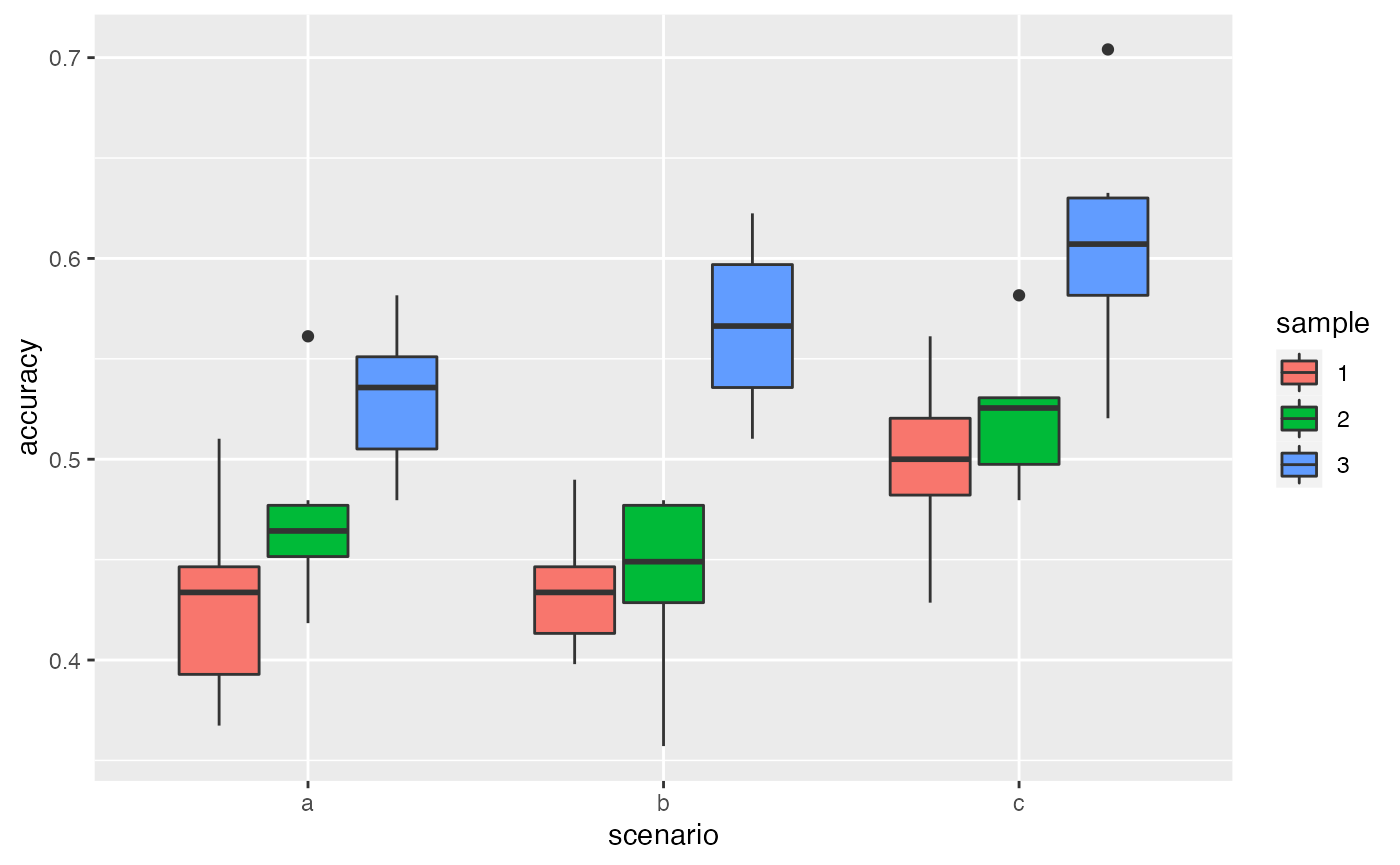
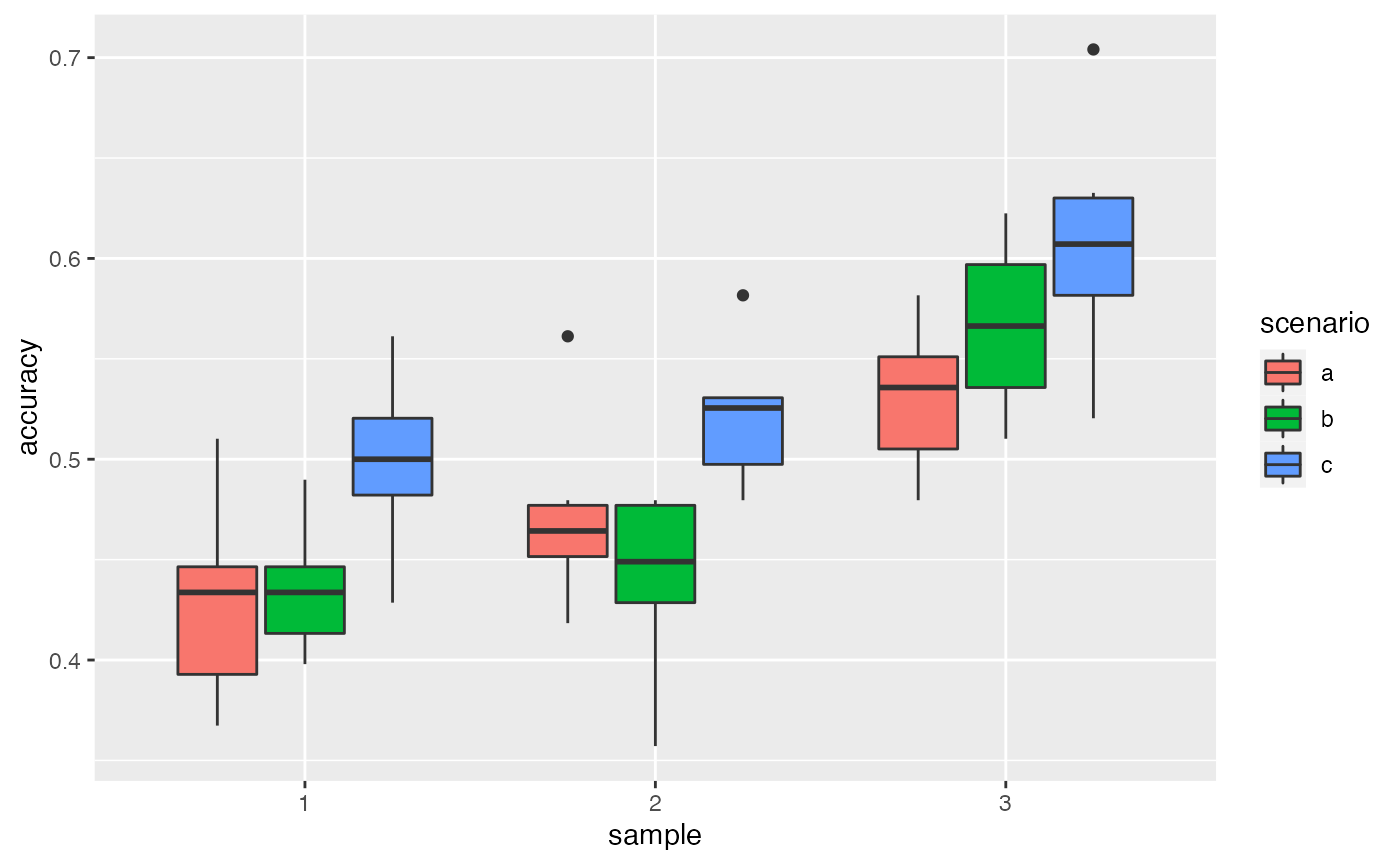
Built site for vernabota: 0.3.0@5c50452

diff --git a/articles/compare.html b/articles/compare.html
@@ -136,7 +136,15 @@
 <div class="sourceCode" id="cb5"><pre class="downlit sourceCode r">
 <code class="sourceCode R"><span class="va">priors</span> <span class="op">&lt;-</span> <span class="fu"><a href="https://rdrr.io/r/base/list.html" class="external-link">list</a></span><span class="op">(</span><span class="va">PriorAllFG</span>, <span class="va">PriorParacouNew</span><span class="op">)</span> <span class="co"># priors</span>
 <span class="va">DAsso</span> <span class="op">&lt;-</span> <span class="fu"><a href="https://rdrr.io/r/base/list.html" class="external-link">list</a></span><span class="op">(</span><span class="cn">NULL</span>, <span class="va">DataAsso</span><span class="op">)</span>               <span class="co"># observation data</span></code></pre></div>
-<p>Then we create the <em>Param</em> dataframe to explicit the different scenarios to test: * priors : a vector with the rank of the priors to use in the priors list * dataAsso : a vector with the rank of the observation data to use in * the DAsso list (if Dasso is not provided, put 1) * weights : a vector with the weights of the priors * eps : a vector with the epsilon value for each scenario * Determ : a vector with the value of Determ (boolean)</p>
+<p>Then we create the <em>Param</em> dataframe to explicit the different scenarios to test:</p>
+<ul>
+<li><p>priors : a vector with the rank of the priors to use in the priors list</p></li>
+<li><p>dataAsso : a vector with the rank of the observation data to use in</p></li>
+<li><p>the DAsso list (if Dasso is not provided, put 1)</p></li>
+<li><p>weights : a vector with the weights of the priors</p></li>
+<li><p>eps : a vector with the epsilon value for each scenario</p></li>
+<li><p>Determ : a vector with the value of Determ (boolean)</p></li>
+</ul>
 <div class="sourceCode" id="cb6"><pre class="downlit sourceCode r">
 <code class="sourceCode R"><span class="va">Param</span> <span class="op">&lt;-</span> <span class="fu"><a href="https://rdrr.io/r/base/data.frame.html" class="external-link">data.frame</a></span><span class="op">(</span>priors <span class="op">=</span> <span class="fu"><a href="https://rdrr.io/r/base/c.html" class="external-link">c</a></span><span class="op">(</span><span class="fl">1</span>,<span class="fl">1</span>,<span class="fl">2</span>,<span class="fl">1</span>,<span class="fl">1</span><span class="op">)</span>,  <span class="co"># here, we used the first prior </span>
                     <span class="co"># of the list for scenario 1, 2, 4 and 5 and the second for scenario 3</span>
@@ -278,7 +286,7 @@
 <code class="sourceCode R">
 <span class="co"># all results together</span>
 <span class="kw"><a href="https://rdrr.io/r/base/library.html" class="external-link">library</a></span><span class="op">(</span><span class="va"><a href="https://ggplot2.tidyverse.org" class="external-link">ggplot2</a></span><span class="op">)</span>
-<span class="fu"><a href="https://ggplot2.tidyverse.org/reference/ggplot.html" class="external-link">ggplot</a></span><span class="op">(</span><span class="fu"><a href="https://ggplot2.tidyverse.org/reference/aes.html" class="external-link">aes</a></span><span class="op">(</span>y <span class="op">=</span> <span class="va">accuracy</span>, x <span class="op">=</span> <span class="va">scenario</span>, fill <span class="op">=</span> <span class="va">sample</span><span class="op">)</span>, data <span class="op">=</span> <span class="va">VBS_test2</span><span class="op">[[</span><span class="fl">2</span><span class="op">]</span><span class="op">]</span><span class="op">)</span> <span class="op">+</span> <span class="fu"><a href="https://ggplot2.tidyverse.org/reference/geom_boxplot.html" class="external-link">geom_boxplot</a></span><span class="op">(</span><span class="op">)</span></code></pre></div>
+<span class="fu"><a href="https://ggplot2.tidyverse.org/reference/ggplot.html" class="external-link">ggplot</a></span><span class="op">(</span><span class="fu"><a href="https://ggplot2.tidyverse.org/reference/aes.html" class="external-link">aes</a></span><span class="op">(</span>y <span class="op">=</span> <span class="va">accuracy</span>, x <span class="op">=</span> <span class="va">sample</span>, fill <span class="op">=</span> <span class="va">scenario</span><span class="op">)</span>, data <span class="op">=</span> <span class="va">VBS_test2</span><span class="op">[[</span><span class="fl">2</span><span class="op">]</span><span class="op">]</span><span class="op">)</span> <span class="op">+</span> <span class="fu"><a href="https://ggplot2.tidyverse.org/reference/geom_boxplot.html" class="external-link">geom_boxplot</a></span><span class="op">(</span><span class="op">)</span></code></pre></div>
 <p><img src="compare_files/figure-html/Compare_samples-3.png" width="700"></p>
 <p>Here, the ranking is preserved between different test datasets: scenario c gives better results. This confirms that the variability between scenarios is higher than the one between samplings. We can then choose a scenario according to this ranking.</p>
 </div>
